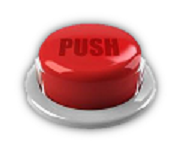
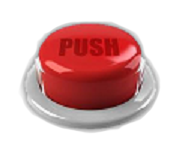
Last Commit

diff --git a/src/main/java/horsegame/StartFrame.java b/src/main/java/horsegame/StartFrame.java
@@ -41,7 +41,6 @@ public class StartFrame extends JFrame {
 
 	}
 
-	// CenterPanel
 	class CenterPanel extends JPanel {
 
 		ImageIcon bg = new ImageIcon("src/images/startBaground_carrot.png");
@@ -59,9 +58,14 @@ public class StartFrame extends JFrame {
 			setSize(horsePanel.getFramewidthsize(), horsePanel.getFrameheightsize());
 
 			startButton = new JButton(new ImageIcon("src/images/push_button.png"));
-			startButton.setSize(200, 200);
-			startButton.setLocation(750, 150);
-
+			startButton.setSize(150, 150);
+			startButton.setLocation(800, 150);
+			startButton.setBorderPainted(false);
+			startButton.setFocusPainted(false);
+			//startButton.setContentAreaFilled(false);
+			//startButton.setOpaque(false);
+			
+			repaint();
 			startButton.addMouseListener(new MouseAdapter() {
 				@Override
 				public void mouseClicked(MouseEvent e) {
